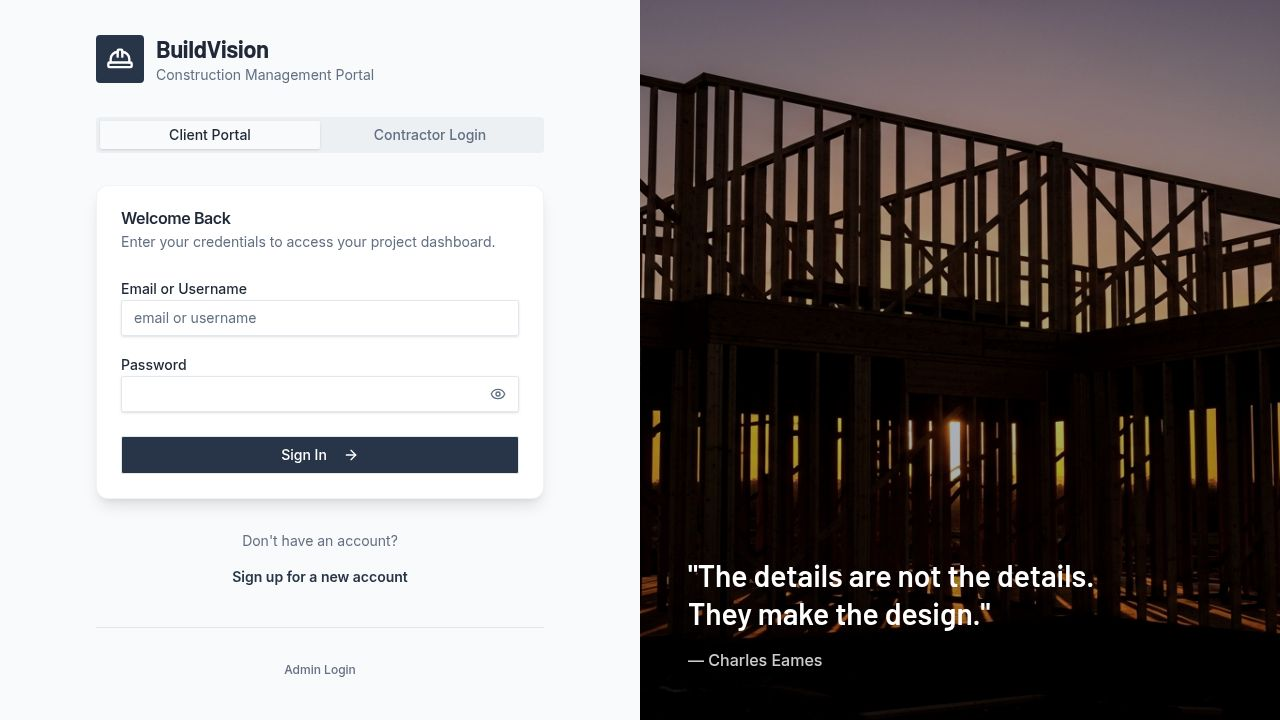
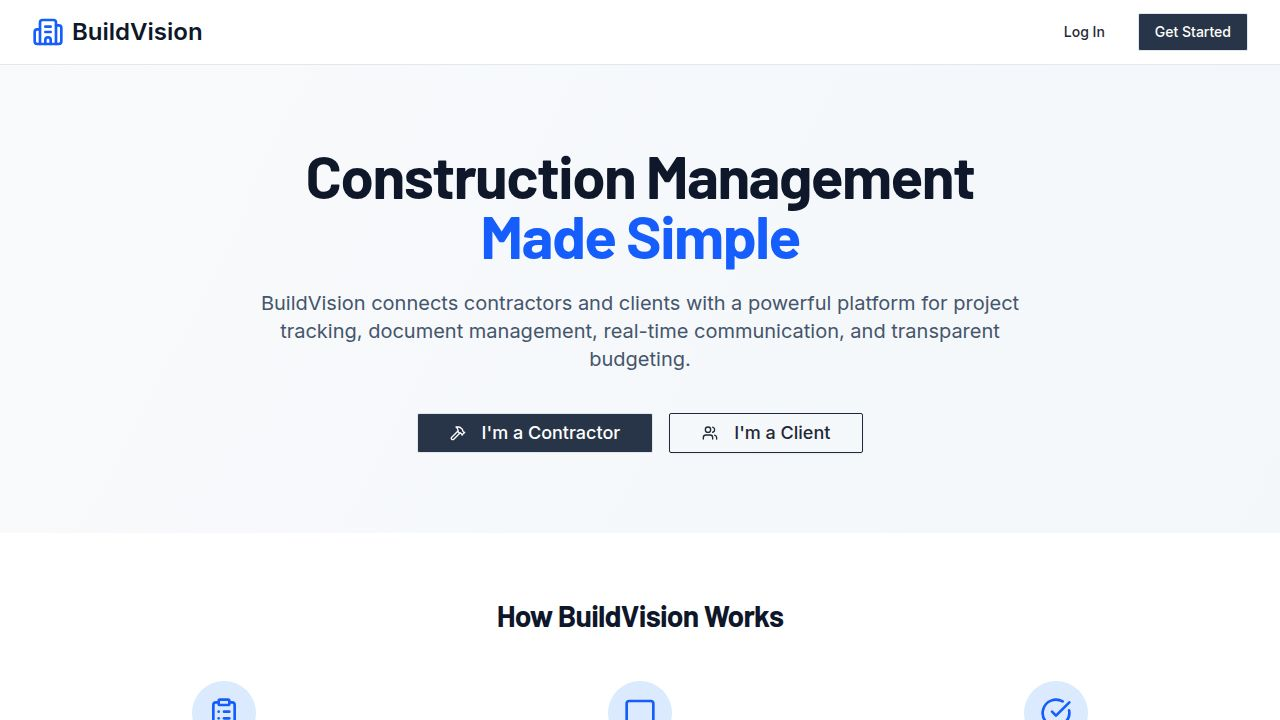
Add a landing page to explain the application's purpose and features
Introduces a new landing page component and updates routing in App.tsx to set the landing page as the default route.

Replit-Commit-Author: Agent
Replit-Commit-Session-Id: 09d04354-767c-4a97-b048-76fe68317dea
Replit-Commit-Checkpoint-Type: full_checkpoint
Replit-Commit-Event-Id: 13b52115-c776-475d-86f6-052935b0585b
Replit-Commit-Screenshot-Url: https://storage.googleapis.com/screenshot-production-us-central1/1eb0e4c3-d87c-4a04-8d77-c710b53089ac/09d04354-767c-4a97-b048-76fe68317dea/05kltLD
Replit-Helium-Checkpoint-Created: true

diff --git a/client/src/pages/landing.tsx b/client/src/pages/landing.tsx
@@ -1,0 +1,283 @@
+import { Link } from "wouter";
+import { Button } from "@/components/ui/button";
+import { Card, CardContent } from "@/components/ui/card";
+import { 
+  Building2, 
+  Users, 
+  FileText, 
+  MessageSquare, 
+  Camera, 
+  DollarSign,
+  CheckCircle,
+  ArrowRight,
+  Hammer,
+  ClipboardList,
+  Shield
+} from "lucide-react";
+
+export default function LandingPage() {
+  return (
+    <div className="min-h-screen bg-gradient-to-br from-slate-50 to-slate-100">
+      <header className="bg-white border-b border-slate-200 sticky top-0 z-50">
+        <div className="max-w-7xl mx-auto px-4 sm:px-6 lg:px-8">
+          <div className="flex justify-between items-center h-16">
+            <div className="flex items-center gap-2">
+              <Building2 className="h-8 w-8 text-blue-600" />
+              <span className="text-2xl font-bold text-slate-900">BuildVision</span>
+            </div>
+            <div className="flex items-center gap-4">
+              <Link href="/auth">
+                <Button variant="ghost" data-testid="link-login">Log In</Button>
+              </Link>
+              <Link href="/auth?register=true">
+                <Button data-testid="link-register">Get Started</Button>
+              </Link>
+            </div>
+          </div>
+        </div>
+      </header>
+
+      <main>
+        <section className="py-20 px-4 sm:px-6 lg:px-8">
+          <div className="max-w-7xl mx-auto text-center">
+            <h1 className="text-4xl sm:text-5xl lg:text-6xl font-bold text-slate-900 mb-6">
+              Construction Management<br />
+              <span className="text-blue-600">Made Simple</span>
+            </h1>
+            <p className="text-xl text-slate-600 max-w-3xl mx-auto mb-10">
+              BuildVision connects contractors and clients with a powerful platform for project tracking, 
+              document management, real-time communication, and transparent budgeting.
+            </p>
+            <div className="flex flex-col sm:flex-row gap-4 justify-center">
+              <Link href="/auth?register=contractor">
+                <Button size="lg" className="text-lg px-8" data-testid="button-contractor-signup">
+                  <Hammer className="mr-2 h-5 w-5" />
+                  I'm a Contractor
+                </Button>
+              </Link>
+              <Link href="/auth?register=client">
+                <Button size="lg" variant="outline" className="text-lg px-8" data-testid="button-client-signup">
+                  <Users className="mr-2 h-5 w-5" />
+                  I'm a Client
+                </Button>
+              </Link>
+            </div>
+          </div>
+        </section>
+
+        <section className="py-16 bg-white">
+          <div className="max-w-7xl mx-auto px-4 sm:px-6 lg:px-8">
+            <h2 className="text-3xl font-bold text-center text-slate-900 mb-12">
+              How BuildVision Works
+            </h2>
+            <div className="grid md:grid-cols-3 gap-8">
+              <div className="text-center">
+                <div className="w-16 h-16 bg-blue-100 rounded-full flex items-center justify-center mx-auto mb-4">
+                  <ClipboardList className="h-8 w-8 text-blue-600" />
+                </div>
+                <h3 className="text-xl font-semibold mb-2">1. Create Your Project</h3>
+                <p className="text-slate-600">
+                  Contractors set up projects with timelines, budgets, and milestones. 
+                  Clients receive an invitation to join their project portal.
+                </p>
+              </div>
+              <div className="text-center">
+                <div className="w-16 h-16 bg-blue-100 rounded-full flex items-center justify-center mx-auto mb-4">
+                  <MessageSquare className="h-8 w-8 text-blue-600" />
+                </div>
+                <h3 className="text-xl font-semibold mb-2">2. Stay Connected</h3>
+                <p className="text-slate-600">
+                  Real-time messaging, progress photos, and document sharing keep everyone 
+                  aligned throughout the construction process.
+                </p>
+              </div>
+              <div className="text-center">
+                <div className="w-16 h-16 bg-blue-100 rounded-full flex items-center justify-center mx-auto mb-4">
+                  <CheckCircle className="h-8 w-8 text-blue-600" />
+                </div>
+                <h3 className="text-xl font-semibold mb-2">3. Complete with Confidence</h3>
+                <p className="text-slate-600">
+                  Track milestones, manage invoices, and sign documents electronically 
+                  for a smooth project completion.
+                </p>
+              </div>
+            </div>
+          </div>
+        </section>
+
+        <section className="py-16 bg-slate-50">
+          <div className="max-w-7xl mx-auto px-4 sm:px-6 lg:px-8">
+            <h2 className="text-3xl font-bold text-center text-slate-900 mb-4">
+              Powerful Features for Every Project
+            </h2>
+            <p className="text-center text-slate-600 mb-12 max-w-2xl mx-auto">
+              Everything you need to manage construction projects from start to finish
+            </p>
+            <div className="grid sm:grid-cols-2 lg:grid-cols-3 gap-6">
+              <Card className="border-0 shadow-md">
+                <CardContent className="p-6">
+                  <FileText className="h-10 w-10 text-blue-600 mb-4" />
+                  <h3 className="text-lg font-semibold mb-2">Document Management</h3>
+                  <p className="text-slate-600 text-sm">
+                    Upload, organize, and share contracts, permits, and plans. 
+                    Built-in e-signature for seamless document signing.
+                  </p>
+                </CardContent>
+              </Card>
+              
+              <Card className="border-0 shadow-md">
+                <CardContent className="p-6">
+                  <Camera className="h-10 w-10 text-blue-600 mb-4" />
+                  <h3 className="text-lg font-semibold mb-2">Progress Photos</h3>
+                  <p className="text-slate-600 text-sm">
+                    Share visual updates with clients. Document every phase 
+                    of construction with timestamped photos.
+                  </p>
+                </CardContent>
+              </Card>
+              
+              <Card className="border-0 shadow-md">
+                <CardContent className="p-6">
+                  <DollarSign className="h-10 w-10 text-blue-600 mb-4" />
+                  <h3 className="text-lg font-semibold mb-2">Budget Tracking</h3>
+                  <p className="text-slate-600 text-sm">
+                    Transparent budget management with detailed breakdowns. 
+                    Clients always know where their money is going.
+                  </p>
+                </CardContent>
+              </Card>
+              
+              <Card className="border-0 shadow-md">
+                <CardContent className="p-6">
+                  <MessageSquare className="h-10 w-10 text-blue-600 mb-4" />
+                  <h3 className="text-lg font-semibold mb-2">Real-Time Messaging</h3>
+                  <p className="text-slate-600 text-sm">
+                    Keep conversations organized by project. 
+                    Never lose important discussions in email threads.
+                  </p>
+                </CardContent>
+              </Card>
+              
+              <Card className="border-0 shadow-md">
+                <CardContent className="p-6">
+                  <ClipboardList className="h-10 w-10 text-blue-600 mb-4" />
+                  <h3 className="text-lg font-semibold mb-2">Milestone Tracking</h3>
+                  <p className="text-slate-600 text-sm">
+                    Break projects into phases with clear milestones. 
+                    Track progress and keep projects on schedule.
+                  </p>
+                </CardContent>
+              </Card>
+              
+              <Card className="border-0 shadow-md">
+                <CardContent className="p-6">
+                  <Shield className="h-10 w-10 text-blue-600 mb-4" />
+                  <h3 className="text-lg font-semibold mb-2">E-Signatures</h3>
+                  <p className="text-slate-600 text-sm">
+                    Legally binding electronic signatures with audit trails. 
+                    Sign contracts and change orders from anywhere.
+                  </p>
+                </CardContent>
+              </Card>
+            </div>
+          </div>
+        </section>
+
+        <section className="py-16 bg-blue-600 text-white">
+          <div className="max-w-7xl mx-auto px-4 sm:px-6 lg:px-8 text-center">
+            <h2 className="text-3xl font-bold mb-4">
+              Ready to Transform Your Construction Projects?
+            </h2>
+            <p className="text-blue-100 text-lg mb-8 max-w-2xl mx-auto">
+              Join contractors and homeowners across Florida who are building better together with BuildVision.
+            </p>
+            <Link href="/auth?register=true">
+              <Button size="lg" variant="secondary" className="text-lg px-8" data-testid="button-get-started-cta">
+                Get Started Free
+                <ArrowRight className="ml-2 h-5 w-5" />
+              </Button>
+            </Link>
+          </div>
+        </section>
+
+        <section className="py-16 bg-white">
+          <div className="max-w-7xl mx-auto px-4 sm:px-6 lg:px-8">
+            <div className="grid md:grid-cols-2 gap-12">
+              <div>
+                <h2 className="text-3xl font-bold text-slate-900 mb-6">
+                  For Contractors
+                </h2>
+                <ul className="space-y-4">
+                  <li className="flex items-start gap-3">
+                    <CheckCircle className="h-6 w-6 text-green-500 flex-shrink-0 mt-0.5" />
+                    <span className="text-slate-600">Manage multiple projects from a single dashboard</span>
+                  </li>
+                  <li className="flex items-start gap-3">
+                    <CheckCircle className="h-6 w-6 text-green-500 flex-shrink-0 mt-0.5" />
+                    <span className="text-slate-600">Create professional estimates with our built-in calculator</span>
+                  </li>
+                  <li className="flex items-start gap-3">
+                    <CheckCircle className="h-6 w-6 text-green-500 flex-shrink-0 mt-0.5" />
+                    <span className="text-slate-600">Send invoices and track payments easily</span>
+                  </li>
+                  <li className="flex items-start gap-3">
+                    <CheckCircle className="h-6 w-6 text-green-500 flex-shrink-0 mt-0.5" />
+                    <span className="text-slate-600">Keep clients informed with automatic progress updates</span>
+                  </li>
+                  <li className="flex items-start gap-3">
+                    <CheckCircle className="h-6 w-6 text-green-500 flex-shrink-0 mt-0.5" />
+                    <span className="text-slate-600">Collect signatures on contracts and change orders digitally</span>
+                  </li>
+                </ul>
+              </div>
+              <div>
+                <h2 className="text-3xl font-bold text-slate-900 mb-6">
+                  For Clients
+                </h2>
+                <ul className="space-y-4">
+                  <li className="flex items-start gap-3">
+                    <CheckCircle className="h-6 w-6 text-green-500 flex-shrink-0 mt-0.5" />
+                    <span className="text-slate-600">Track your project's progress in real-time</span>
+                  </li>
+                  <li className="flex items-start gap-3">
+                    <CheckCircle className="h-6 w-6 text-green-500 flex-shrink-0 mt-0.5" />
+                    <span className="text-slate-600">View photos and updates from your contractor</span>
+                  </li>
+                  <li className="flex items-start gap-3">
+                    <CheckCircle className="h-6 w-6 text-green-500 flex-shrink-0 mt-0.5" />
+                    <span className="text-slate-600">Communicate directly through the app</span>
+                  </li>
+                  <li className="flex items-start gap-3">
+                    <CheckCircle className="h-6 w-6 text-green-500 flex-shrink-0 mt-0.5" />
+                    <span className="text-slate-600">Access all project documents in one place</span>
+                  </li>
+                  <li className="flex items-start gap-3">
+                    <CheckCircle className="h-6 w-6 text-green-500 flex-shrink-0 mt-0.5" />
+                    <span className="text-slate-600">See exactly where your budget is being spent</span>
+                  </li>
+                </ul>
+              </div>
+            </div>
+          </div>
+        </section>
+      </main>
+
+      <footer className="bg-slate-900 text-slate-400 py-12">
+        <div className="max-w-7xl mx-auto px-4 sm:px-6 lg:px-8">
+          <div className="flex flex-col md:flex-row justify-between items-center">
+            <div className="flex items-center gap-2 mb-4 md:mb-0">
+              <Building2 className="h-6 w-6 text-blue-400" />
+              <span className="text-xl font-bold text-white">BuildVision</span>
+            </div>
+            <div className="text-sm">
+              <span>Florida-based Construction Management Platform</span>
+            </div>
+          </div>
+          <div className="border-t border-slate-800 mt-8 pt-8 text-center text-sm">
+            <p>&copy; {new Date().getFullYear()} BuildVision. All rights reserved.</p>
+          </div>
+        </div>
+      </footer>
+    </div>
+  );
+}

diff --git a/client/src/App.tsx b/client/src/App.tsx
@@ -5,6 +5,7 @@ import { Toaster } from "@/components/ui/toaster";
 import { TooltipProvider } from "@/components/ui/tooltip";
 import NotFound from "@/pages/not-found";
 import Layout from "@/components/layout";
+import LandingPage from "@/pages/landing";
 import AuthPage from "@/pages/auth";
 import ClientDashboard from "@/pages/client-dashboard";
 import AdminDashboard from "@/pages/admin-dashboard";
@@ -38,8 +39,13 @@ import { AuthProvider } from "@/lib/auth-context";
 function Router() {
   const [location] = useLocation();
 
-  // Public/Auth Routes
-  if (location === "/" || location === "/auth") {
+  // Landing Page (home)
+  if (location === "/") {
+    return <LandingPage />;
+  }
+  
+  // Auth Routes
+  if (location === "/auth") {
     return <AuthPage />;
   }
   